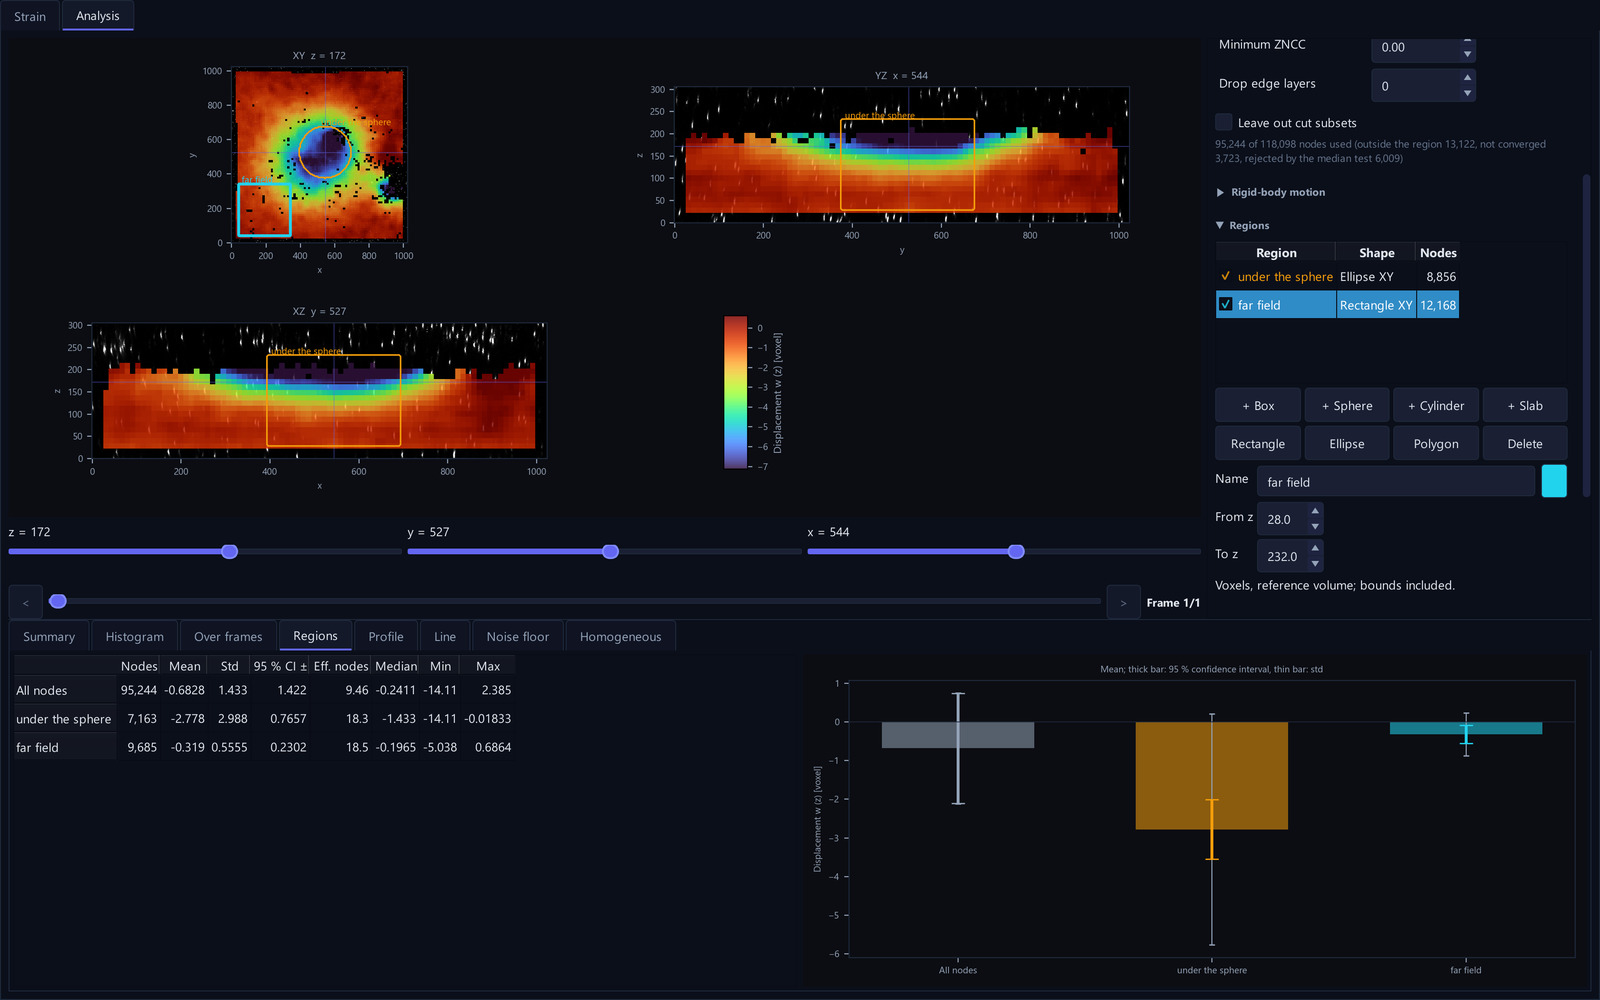
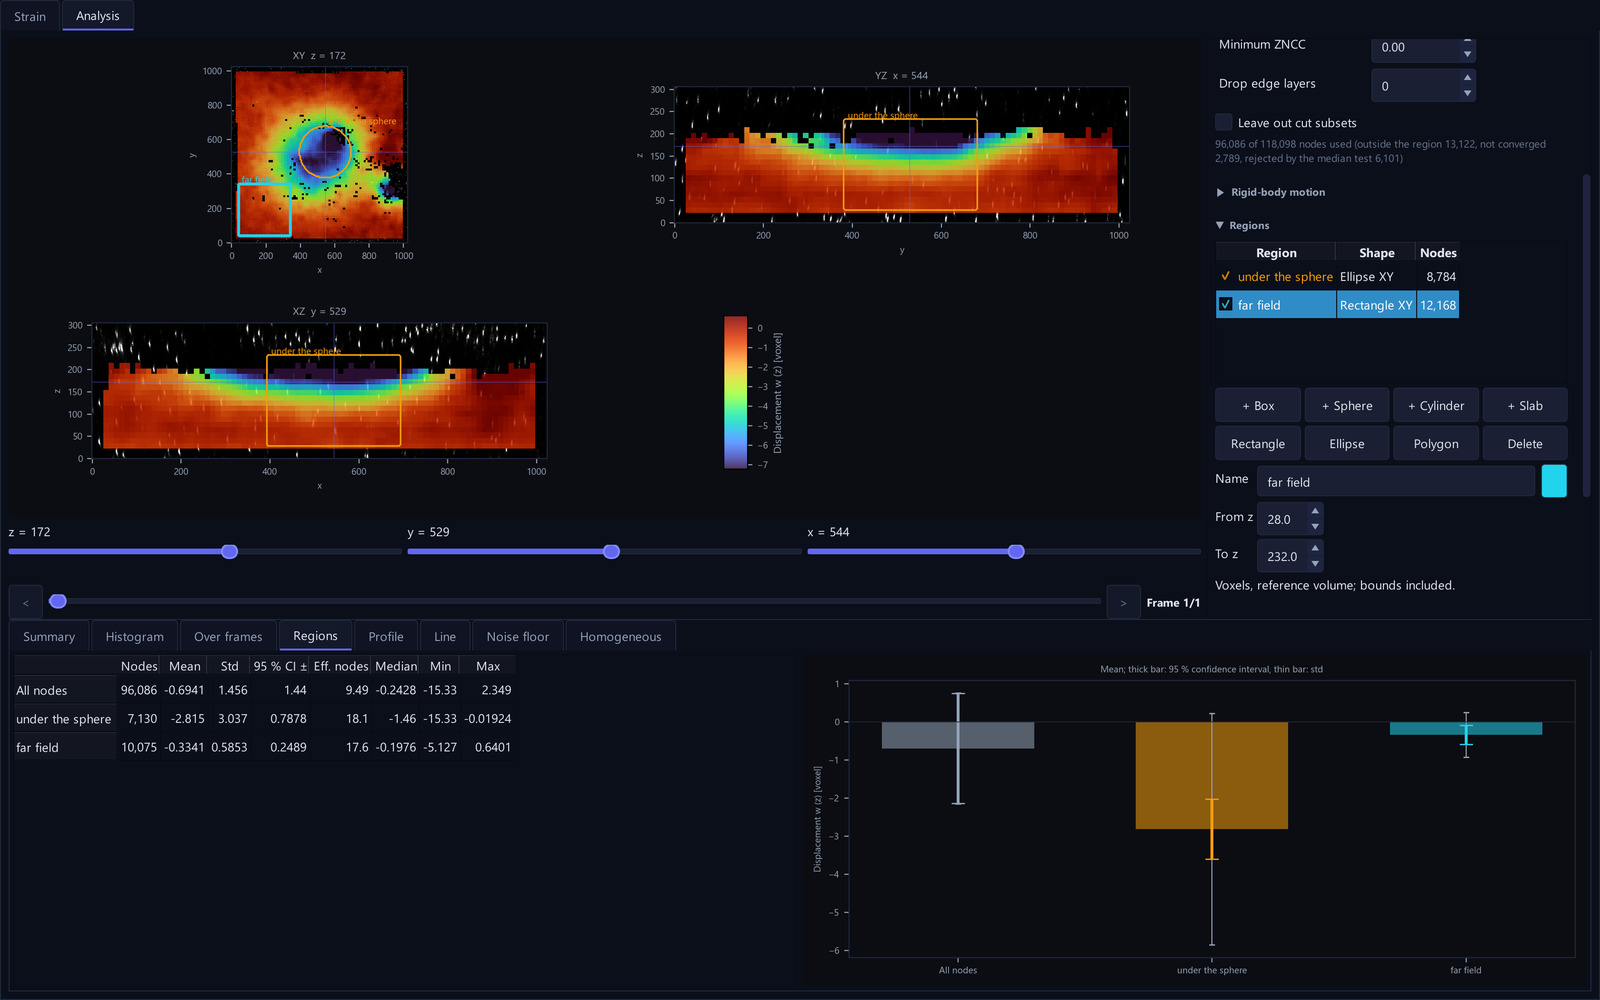
docs: website and README brought up to 1.2.0, current screenshots, metadata
The features name what 1.1.0 and 1.2.0 added (light theme, node points and
nested iso-surfaces with a cut-away, PNG frames, sessions that keep the
results and find moved projects); the "New in 0.10" tag is gone; strain is
computed in the post-processing window; the statistics screenshot is the
Analysis tab. The README's accuracy table has the website's rows and the
hydrogel run time reads 71 s in both. The application screenshots are
captured again with 1.2.0.

The PyPI summary names the software as the citation does, Jin Yang is listed
as an author, and CITATION.cff drops the stale 0.9.0 DOI and gives the website.

diff --git a/site/index.html b/site/index.html
@@ -256,7 +256,7 @@
           <ul class="metrics">
             <li><b>144,342</b><span>grid nodes</span></li>
             <li><b>−4.5&#8239;µm</b><span>w under the sphere, −10.5 voxels</span></li>
-            <li><b>70.8&#8239;s</b><span>on one&nbsp;GPU</span></li>
+            <li><b>71&#8239;s</b><span>on one&nbsp;GPU</span></li>
           </ul>
         </div>
         <div class="case-media">
@@ -372,7 +372,7 @@
     <ol class="features">
       <li>
         <h3>Point and click</h3>
-        <p>Load the scans, draw the region of interest on the slices with a box, ellipse, polygon, brush or an automatic mask, run and export, in an interface available in seven languages.</p>
+        <p>Load the scans, draw the region of interest on the slices with a box, ellipse, polygon, brush or an automatic mask, run and export, in an interface available in seven languages, with a dark or a light theme.</p>
         <ul class="langs">
           <li lang="en">English</li><li lang="zh-Hans">简体中文</li><li lang="zh-Hant">繁體中文</li><li lang="ja">日本語</li><li lang="de">Deutsch</li><li lang="fr">Français</li><li lang="es">Español</li>
         </ul>
@@ -395,15 +395,15 @@
       </li>
       <li>
         <h3>Strain</h3>
-        <p>Four gradient methods (plane fit, finite elements, finite differences, direct) and four measures (infinitesimal, Green–Lagrange, Euler–Almansi, Hencky), computed after the run in their own window.</p>
+        <p>Four gradient methods (plane fit, finite elements, finite differences, direct) and four measures (infinitesimal, Green–Lagrange, Euler–Almansi, Hencky), computed after the run in the post-processing window.</p>
       </li>
       <li>
-        <h3>Statistics and rigid-body motion <span class="new-tag">New in 0.10</span></h3>
+        <h3>Statistics and rigid-body motion</h3>
         <p>Means with 95&#8239;% confidence intervals, the noise floor, regions, profiles and a virtual extensometer, with the rigid-body motion fitted in closed form and removed.</p>
       </li>
       <li>
         <h3><span class="nw">3-D</span> view and animations</h3>
-        <p>Field slices, the deformed node grid and displacement arrows, with orbits, frame sequences and slice sweeps recorded as GIF, or as MP4 with the optional <code>imageio</code> and <code>imageio-ffmpeg</code>.</p>
+        <p>Field slices, node points, nested iso-surfaces with a quarter cut away, the deformed node grid and displacement arrows, with orbits, frame sequences and slice sweeps recorded as GIF, PNG frames, or MP4 with the optional <code>imageio</code> and <code>imageio-ffmpeg</code>.</p>
       </li>
       <li>
         <h3>Formats</h3>
@@ -411,7 +411,7 @@
       </li>
       <li>
         <h3>Sessions, batch and command line</h3>
-        <p>Save a session, queue sessions as a batch, resume long sequences from checkpoints, or run the same analysis with <code>al-dvc</code> or <code>al_dvc.run_aldvc</code>.</p>
+        <p>Save a session with the results and every setting: it reopens without recomputing and finds the volumes again when the project moves. Queue sessions as a batch, resume long sequences from checkpoints, or run the same analysis with <code>al-dvc</code> or <code>al_dvc.run_aldvc</code>.</p>
       </li>
     </ol>
 
@@ -434,12 +434,12 @@
         <div class="tab-panel" data-label="Strain">
           <figure class="shot">
             <a class="zoom" href="img/app-strain.jpg"><img src="img/app-strain.jpg" width="1600" height="1000" loading="lazy" decoding="async" alt="The post-processing window on its Strain tab."></a>
-            <figcaption>Strain after the run, with the gradient method and the strain measure chosen in their own window.</figcaption>
+            <figcaption>Strain after the run, with the gradient method and the strain measure chosen in the post-processing window.</figcaption>
           </figure>
         </div>
         <div class="tab-panel" data-label="Statistics">
           <figure class="shot">
-            <a class="zoom" href="img/app-statistics.jpg"><img src="img/app-statistics.jpg" width="1600" height="1000" loading="lazy" decoding="async" alt="The post-processing window on its Statistics tab with two regions."></a>
+            <a class="zoom" href="img/app-statistics.jpg"><img src="img/app-statistics.jpg" width="1600" height="1000" loading="lazy" decoding="async" alt="The post-processing window on its Analysis tab with two regions."></a>
             <figcaption>Statistics: two regions drawn on the slices and compared, each mean with its 95&#8239;% confidence interval.</figcaption>
           </figure>
         </div>

diff --git a/scripts/make_site_screens.py b/scripts/make_site_screens.py
@@ -8,7 +8,7 @@ region of interest with the Rectangle tool, runs the analysis from the Run butto
     app-slices.jpg      main window, Slices tab: displacement w over the reference volume
     app-3d.jpg          main window, 3-D view tab: the deformed node lattice with displacement arrows
     app-strain.jpg      post-processing window, Strain tab, after computing the strain
-    app-statistics.jpg  post-processing window, Statistics tab: two drawn regions, the Regions page
+    app-statistics.jpg  post-processing window, Analysis tab: two drawn regions, the Regions page
     app-texture.jpg     texture analysis window on the reference volume (RVE sweep, autocorrelation)
     app-setup.jpg       main window before the run: region of interest and node-grid preview on the slices;
                         written to --raw (not to the site) with app-setup.json, the panels' rectangles in

diff --git a/README.md b/README.md
@@ -91,7 +91,7 @@ Foam data courtesy of NIST (Landauer et al., *Sci. Data* 10, 356, 2023).</sub>
 
 <table>
   <tr>
-    <td width="50%" valign="top"><b>Point and click</b><br>Load the scans, draw the region of interest on the slices, run and export, in seven languages. No code.</td>
+    <td width="50%" valign="top"><b>Point and click</b><br>Load the scans, draw the region of interest on the slices, run and export, in seven languages and a dark or light theme. No code.</td>
     <td width="50%" valign="top"><b>AL-DVC solver</b><br>Local subset fits coupled to one smooth, compatible field: cleaner gradients, and masked cracks and holes stay sharp.</td>
   </tr>
   <tr>
@@ -103,8 +103,8 @@ Foam data courtesy of NIST (Landauer et al., *Sci. Data* 10, 356, 2023).</sub>
     <td valign="top"><b>Strain</b><br>Four gradient methods × four measures (infinitesimal, Green–Lagrange, Euler–Almansi, Hencky).</td>
   </tr>
   <tr>
-    <td valign="top"><b>Statistics and rigid-body motion</b><br>Means with 95&nbsp;% confidence intervals, the noise floor, regions, profiles, a virtual extensometer.</td>
-    <td valign="top"><b>3-D view and animations</b><br>Field slices, the deformed node grid and arrows; orbits and sweeps recorded as GIF or MP4.</td>
+    <td valign="top"><b>Statistics and rigid-body motion</b><br>Means with 95&nbsp;% confidence intervals, the noise floor, regions, profiles, a virtual extensometer; rigid-body motion fitted in closed form and removed.</td>
+    <td valign="top"><b>3-D view and animations</b><br>Field slices, node points, nested iso-surfaces, the deformed node grid and arrows; orbits and sweeps recorded as GIF, PNG frames or MP4.</td>
   </tr>
   <tr>
     <td valign="top"><b>Formats</b><br>TIFF, MATLAB, NumPy, HDF5, NIfTI, NRRD, DICOM in; NumPy, MATLAB, CSV, ParaView, PDF out.</td>
@@ -143,12 +143,14 @@ rotation reads as false strain. A closed-form rigid fit removes it and reveals t
 
 | Test | Result |
 |---|---|
-| Synthetic rigid translation or 2 % strain | 0.003–0.006 voxel error |
+| Synthetic rigid translation | 0.003–0.006 voxel error |
+| Synthetic 2 % strain | 0.004 voxel error |
 | Synthetic 5° rotation about the z axis | 0.001 voxel error |
 | Synthetic translation (12.3, −9.6, 7.4) + 1 % strain | 0.004–0.005 voxel error |
 | Synthetic 2 % strain with noise (SNR 6) | 0.011–0.012 voxel error |
 | Confocal pair, 1024 × 1024 × 306, 79,200 nodes | 34 s on one RTX 5090 (5.0 min on a 24-core CPU) |
 | Same pair, against MATLAB ALDVC (u, v, w) | median difference 0.005 / 0.006 / 0.020 voxel |
+| GPU against CPU | typically below 10<sup>−5</sup> voxel |
 | Masked 1024³ pair | about 14 GB of volume memory, from the memory model (was 53 GB) |
 
 <sub>Synthetic rows: RMS error of each displacement component at the interior nodes, subset 16, step 8 voxels, default

diff --git a/CHANGELOG.md b/CHANGELOG.md
@@ -4,6 +4,22 @@ All notable changes to pyALDVC are documented here. The format follows
 [Keep a Changelog](https://keepachangelog.com/) and the project uses
 [Semantic Versioning](https://semver.org/).
 
+## [Unreleased]
+
+### Changed
+- **Website and README brought up to 1.2.0.** The features now name what 1.1.0 and 1.2.0 added: the light
+  theme, node points and nested iso-surfaces with a cut-away in the 3-D view, PNG frames as a recording
+  format, and sessions that keep the results and find moved projects. The "New in 0.10" tag is gone; strain
+  is computed in the post-processing window (not "its own window"); the statistics screenshot is the
+  *Analysis* tab. The README's accuracy table has the website's rows (translation and 2 % strain apart, GPU
+  against CPU added) and the hydrogel run time reads 71 s in both. The application screenshots on the
+  website are captured again with 1.2.0 (`scripts/make_site_screens.py`).
+- **Package metadata.** The PyPI summary names the software as the citation does ("pyALDVC: Augmented
+  Lagrangian Digital Volume Correlation in Python") instead of "AL-DVC ... (3D)"; Jin Yang is listed as an
+  author, as in `CITATION.cff` and the licence; `confocal-microscopy` joins the keywords. `CITATION.cff`
+  no longer lists the DOI of version 0.9.0 (the concept DOI resolves to the latest release) and gives the
+  website.
+
 ## [1.2.0] - 2026-09-24
 
 ### Added
